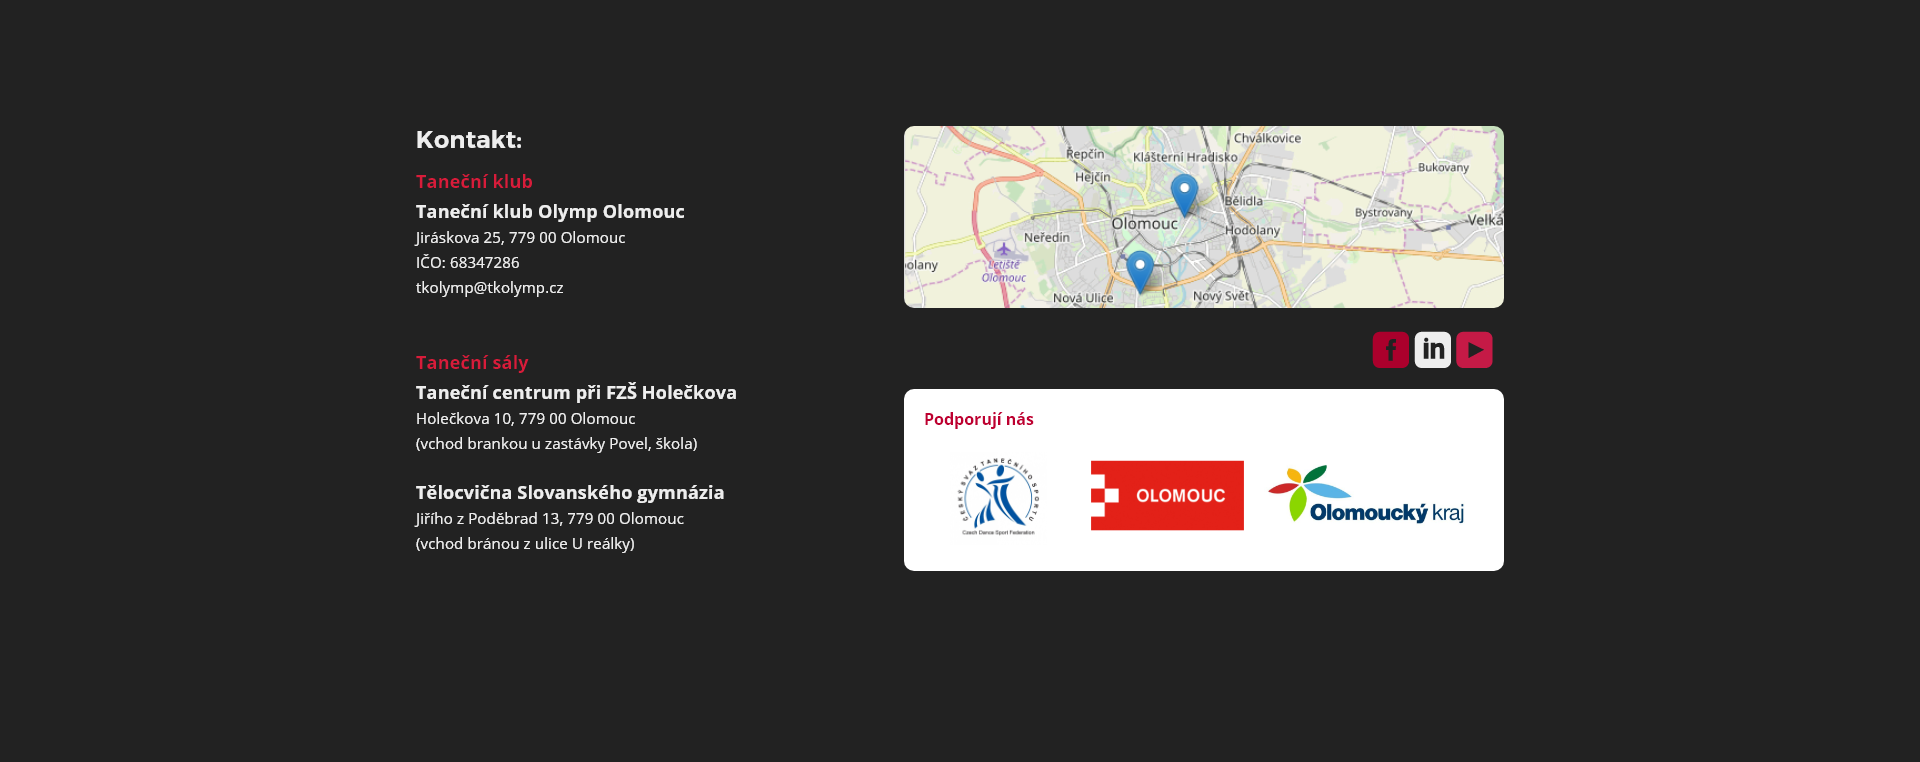
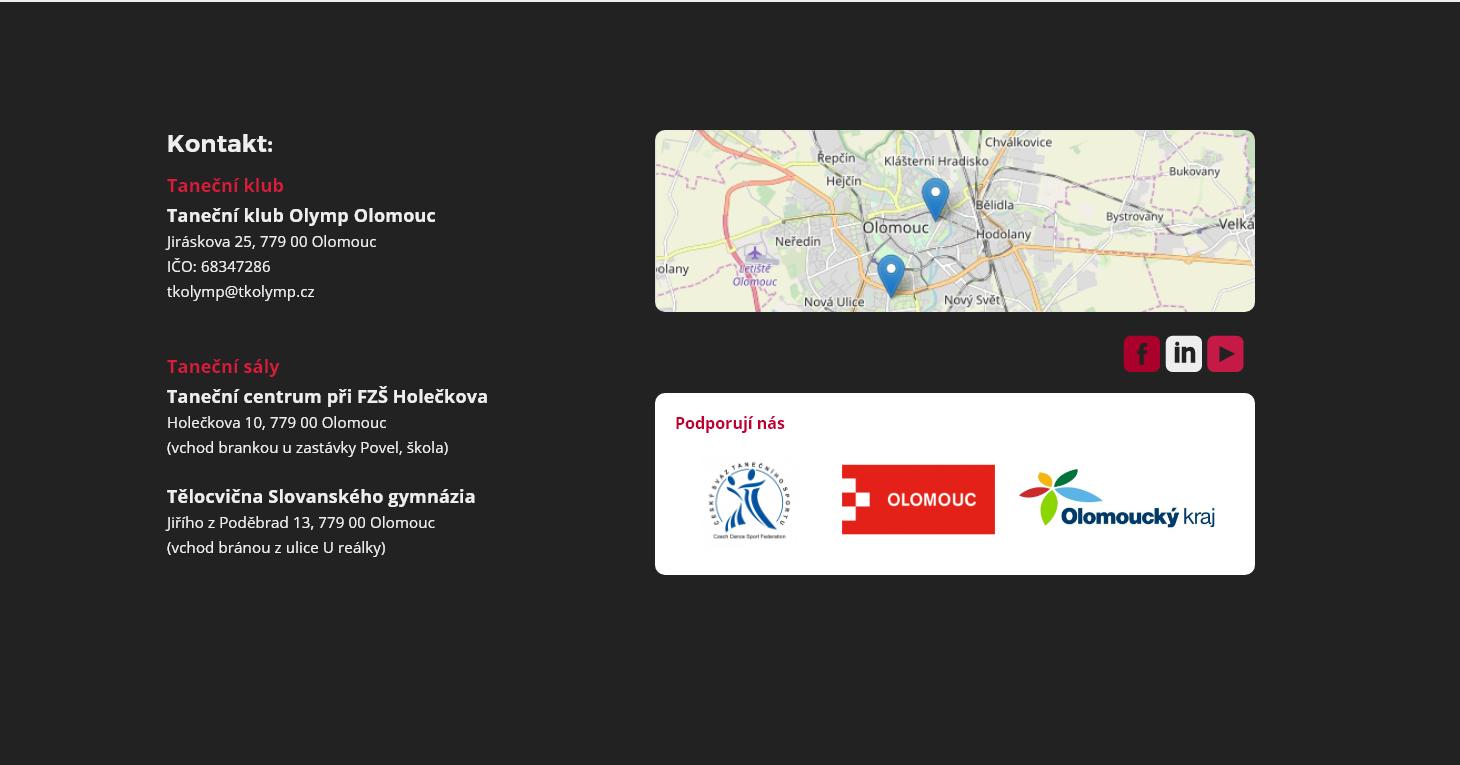
Start developing Footer

diff --git a/sirimbo-app/src/components/Footer.tsx b/sirimbo-app/src/components/Footer.tsx
@@ -1,19 +1,64 @@
 import * as React from 'react';
+import { Container, Typography } from '@material-ui/core';
+import { makeStyles } from '@material-ui/core/styles';
+import clsx from 'clsx';
 
-export const Footer = () => <div>
-  Kontakt
+const useStyles = makeStyles((theme) => ({
+  section: {
+    color: theme.palette.secondary.contrastText,
+    backgroundColor: theme.palette.secondary.main
+  },
+  h2: {
+    fontSize: '2rem',
+    fontWeight: 900,
+  },
+  h3: {
+    color: theme.palette.primary.main,
+    fontWeight: 700,
+    fontSize: '1.2rem',
+    marginTop: '1rem',
+  },
+  h4: {
+    fontSize: '1.2rem',
+    fontWeight: 900,
+    marginTop: '.5rem',
+  },
+  gutter: {
+    marginTop: '1rem',
+  }
+}));
 
-  Taneční klub Olymp Olomouc
-  Jiráskova 25, 779 00 Olomouc
-  IČO: 68347286
-  tkolymp@tkolymp.cz
+export const Footer = () => {
+  const classes = useStyles();
 
-  Taneční sály
-  Taneční centrum při FZŠ Holečkova
-  Holečkova 10, 779 00 Olomouc
-  (vchod brankou u zastávky Povel, škola)
+  return <div className={classes.section}>
+    <Container maxWidth="lg">
+      <Typography variant="h2" className={classes.h2}>Kontakt:</Typography>
 
-  Tělocvična Slovanského gymnázia
-  Jiřího z Poděbrad 13, 779 00 Olomouc
-  (vchod bránou z ulice U reálky)
-</div>;
+      <Typography variant="h3" className={clsx(classes.h3, classes.gutter)}>Taneční klub</Typography>
+      <Typography variant="h4" className={classes.h4}>Taneční klub Olymp Olomouc</Typography>
+      <Typography>
+        Jiráskova 25, 779 00 Olomouc<br />
+        IČO: 68347286<br />
+        tkolymp@tkolymp.cz
+      </Typography>
+
+      <br />
+      <br />
+
+      <Typography variant="h3" className={classes.h3}>Taneční sály</Typography>
+      <Typography variant="h4" className={classes.h4}>Taneční centrum při FZŠ Holečkova</Typography>
+      <Typography>
+        Holečkova 10, 779 00 Olomouc<br />
+        (vchod brankou u zastávky Povel, škola)
+      </Typography>
+
+      <br />
+      <Typography variant="h4" className={classes.h4}>Tělocvična Slovanského gymnázia</Typography>
+      <Typography>
+        Jiřího z Poděbrad 13, 779 00 Olomouc<br />
+        (vchod bránou z ulice U reálky)
+      </Typography>
+    </Container>
+  </div>;
+};

diff --git a/sirimbo-app/src/components/Footer.stories.tsx b/sirimbo-app/src/components/Footer.stories.tsx
@@ -5,29 +5,23 @@ import { ThemeProvider } from '@material-ui/styles';
 import { ProvideAuth } from '../use-auth';
 import { theme } from '../theme';
 
-import template from './Header.png';
-import { Header } from './Header';
+import template from './Footer.png';
+import { Footer } from './Footer';
 
 export default {
-  title: 'Layout/Header',
-  component: Header,
-} as ComponentMeta<typeof Header>;
+  title: 'Layout/Footer',
+  component: Footer,
+} as ComponentMeta<typeof Footer>;
 
-const Template: ComponentStory<typeof Header> = (args) =>
+const Template: ComponentStory<typeof Footer> = (args) =>
   <ThemeProvider theme={theme}>
     <ProvideAuth>
       <MemoryRouter>
-        <Header {...args} />
+        <Footer {...args} />
       </MemoryRouter>
     </ProvideAuth>
   </ThemeProvider>;
 
-export const LoggedIn = Template.bind({});
-LoggedIn.args = {
-  user: {},
-};
-
-export const LoggedOut = Template.bind({});
-LoggedOut.args = {};
+export const Normal = Template.bind({});
 
 export const Image = () => <img src={template} />;

diff --git a/sirimbo-app/src/use-auth.tsx b/sirimbo-app/src/use-auth.tsx
@@ -11,12 +11,18 @@ export interface AuthContextType {
   confirmPasswordReset: (code: string, password: string) => Promise<void>;
 }
 
-const authContext = React.createContext(useMockAuth());
+const authContext = React.createContext<AuthContextType | undefined>(undefined);
 
-export const ProvideAuth = ({ children }: { children: React.ReactChild | React.ReactChildren }) =>
+export const ProvideAuth = ({ children }: { children: React.ReactChild | React.ReactChild[] }) =>
   <authContext.Provider value={useApiAuth()}>{children}</authContext.Provider>;
 
-export const useAuth = () => React.useContext(authContext);
+export const useAuth = () => {
+  const auth = React.useContext(authContext);
+  if (auth === undefined) {
+    throw new Error('You can only use `useAuth` from inside an AuthProvider');
+  }
+  return auth;
+}
 
 function useMockAuth(): AuthContextType {
   const [user, setUser] = React.useState<User | null>(null);

diff --git a/sirimbo-app/src/app.tsx b/sirimbo-app/src/app.tsx
@@ -19,6 +19,7 @@ import { theme } from './theme';
 import { Layout } from './components/Layout';
 import { PageEditor } from './pages/PageEditor';
 import { HomePage } from './pages/HomePage';
+import { ProvideAuth } from './use-auth';
 
 const createAppStore = (dataProvider: DataProvider, history: History) => {
   const reducer = combineReducers({
@@ -108,8 +109,10 @@ export const App = () => {
       <ThemeProvider theme={theme}>
         <ApolloProvider client={client}>
           <ConnectedRouter history={history}>
-            <Resource name="upozorneni" intent="registration" />
-            <Layout>{routes}</Layout>
+            <ProvideAuth>
+              <Resource name="upozorneni" intent="registration" />
+              <Layout>{routes}</Layout>
+            </ProvideAuth>
           </ConnectedRouter>
         </ApolloProvider>
       </ThemeProvider>

diff --git a/sirimbo-app/src/components/HighlightsList.tsx b/sirimbo-app/src/components/HighlightsList.tsx
@@ -5,7 +5,7 @@ import { Paper } from '@material-ui/core';
 export const HighlightList = () => {
   const items = [{}, {}, {}, {}];
   return <React.Fragment>
-    {items.map((x, i) => <HighlightItem key={i} item={x} />)}
+    {items.map((x, i) => <HighlightItem key={i} item={{ i }} />)}
   </React.Fragment>;
 }
-const HighlightItem = (props: { item: {}; key: number; }) => <Paper>{props.key}</Paper>
+const HighlightItem = (props: { item: {}; }) => <Paper>{props.item.toString()}</Paper>

diff --git a/sirimbo-app/src/theme.ts b/sirimbo-app/src/theme.ts
@@ -1,12 +1,19 @@
 import { createTheme } from '@material-ui/core/styles';
 
 export const theme = createTheme({
+  typography: {
+    fontFamily: `"Helvetica", "Arial", sans-serif`,
+    fontSize: 14,
+    fontWeightLight: 300,
+    fontWeightRegular: 400,
+    fontWeightMedium: 500
+  },
   palette: {
     primary: {
-      main: "#f60000",
+      main: "#d81c3a",
     },
     secondary: {
-      main: '#000',
+      main: '#222222',
     },
   },
 });
